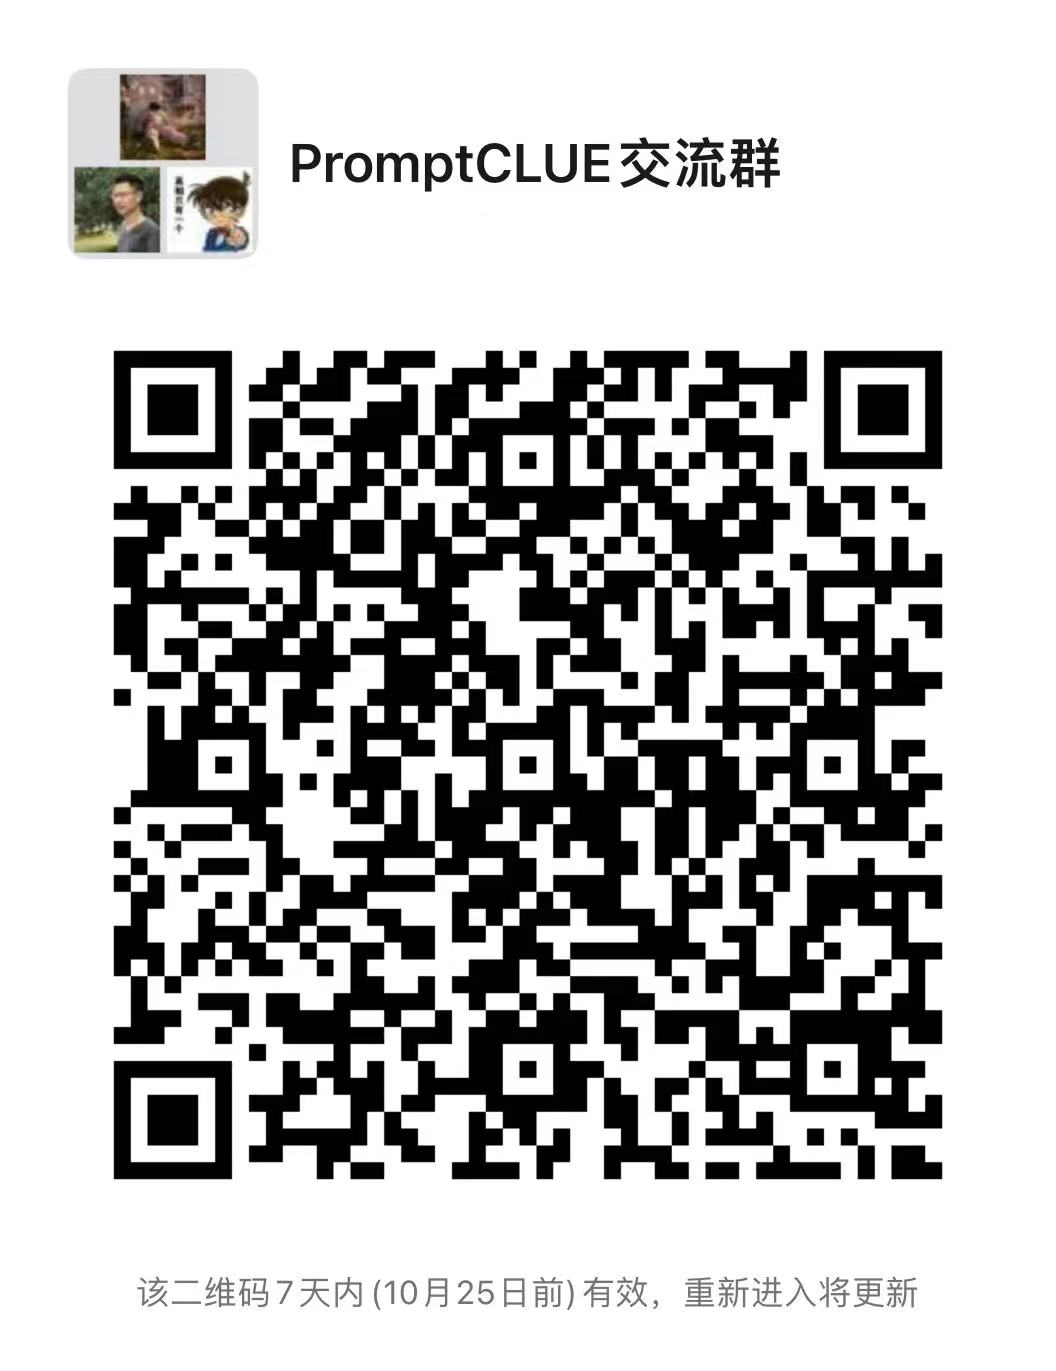
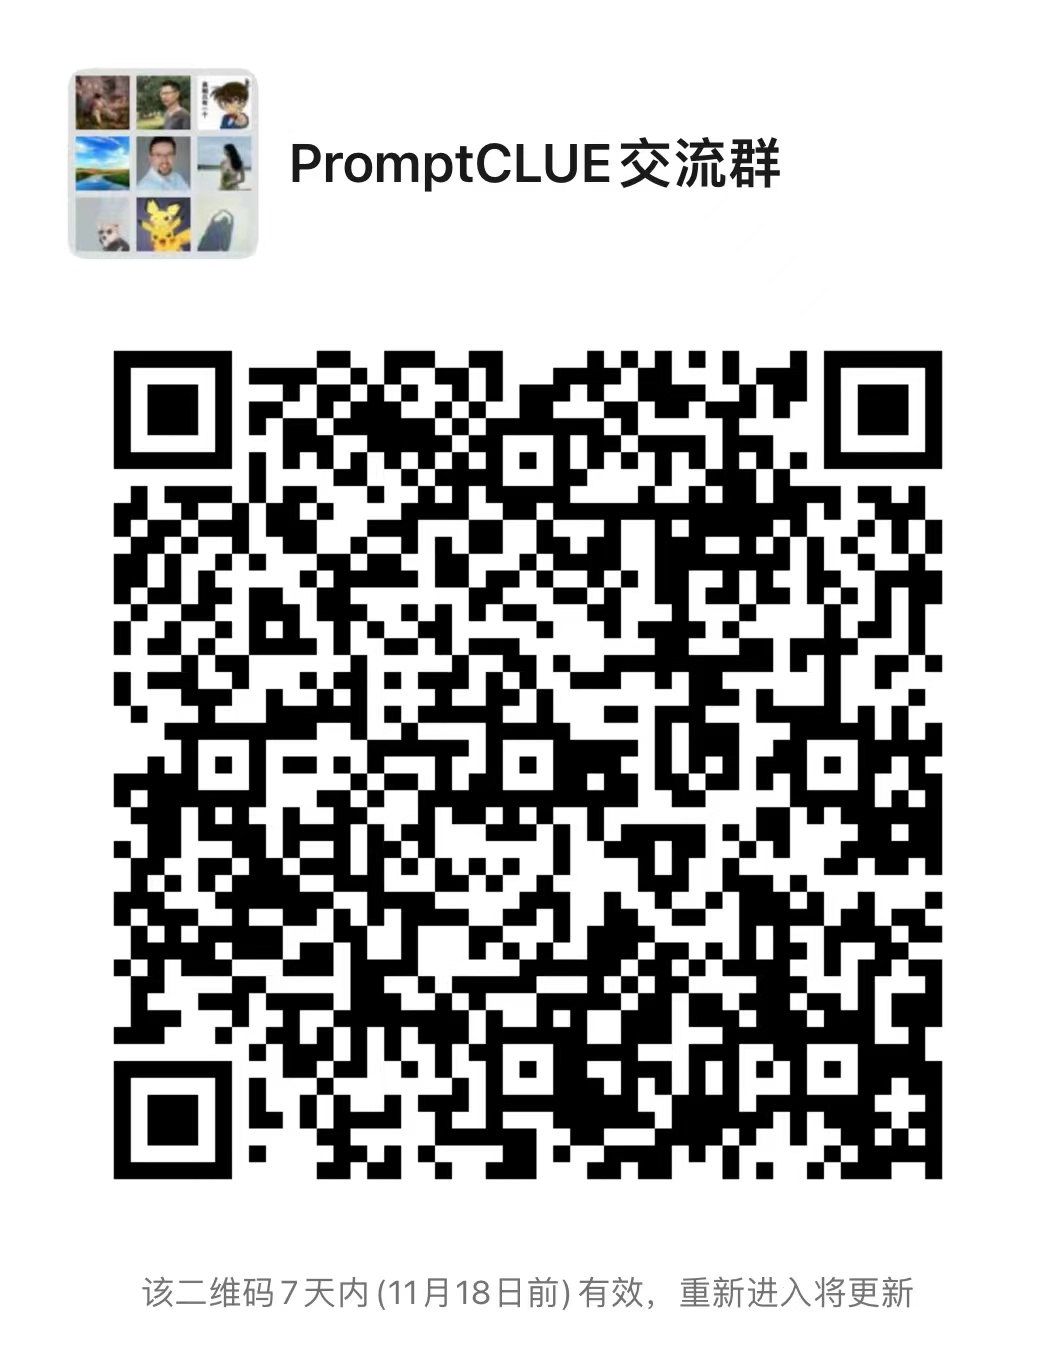
update

diff --git a/README.md b/README.md
@@ -370,7 +370,7 @@ PromptCLUE：大规模多任务Prompt预训练中文开源模型。
    
 ### 技术交流和问题反馈
 <p float="left">
-   <img src="https://github.com/clue-ai/PromptCLUE/blob/main/docs/imgs/promptclue.jpeg"  width="29%" height="29%" />   
+   <img src="https://github.com/clue-ai/PromptCLUE/blob/main/docs/imgs/promptclue_group.jpeg"  width="29%" height="29%" />   
    <img src="https://github.com/clue-ai/clueai-python/blob/main/docs/imgs/brightmart.jpeg"  width="29%" height="29%" /> 
 </p> 
 
